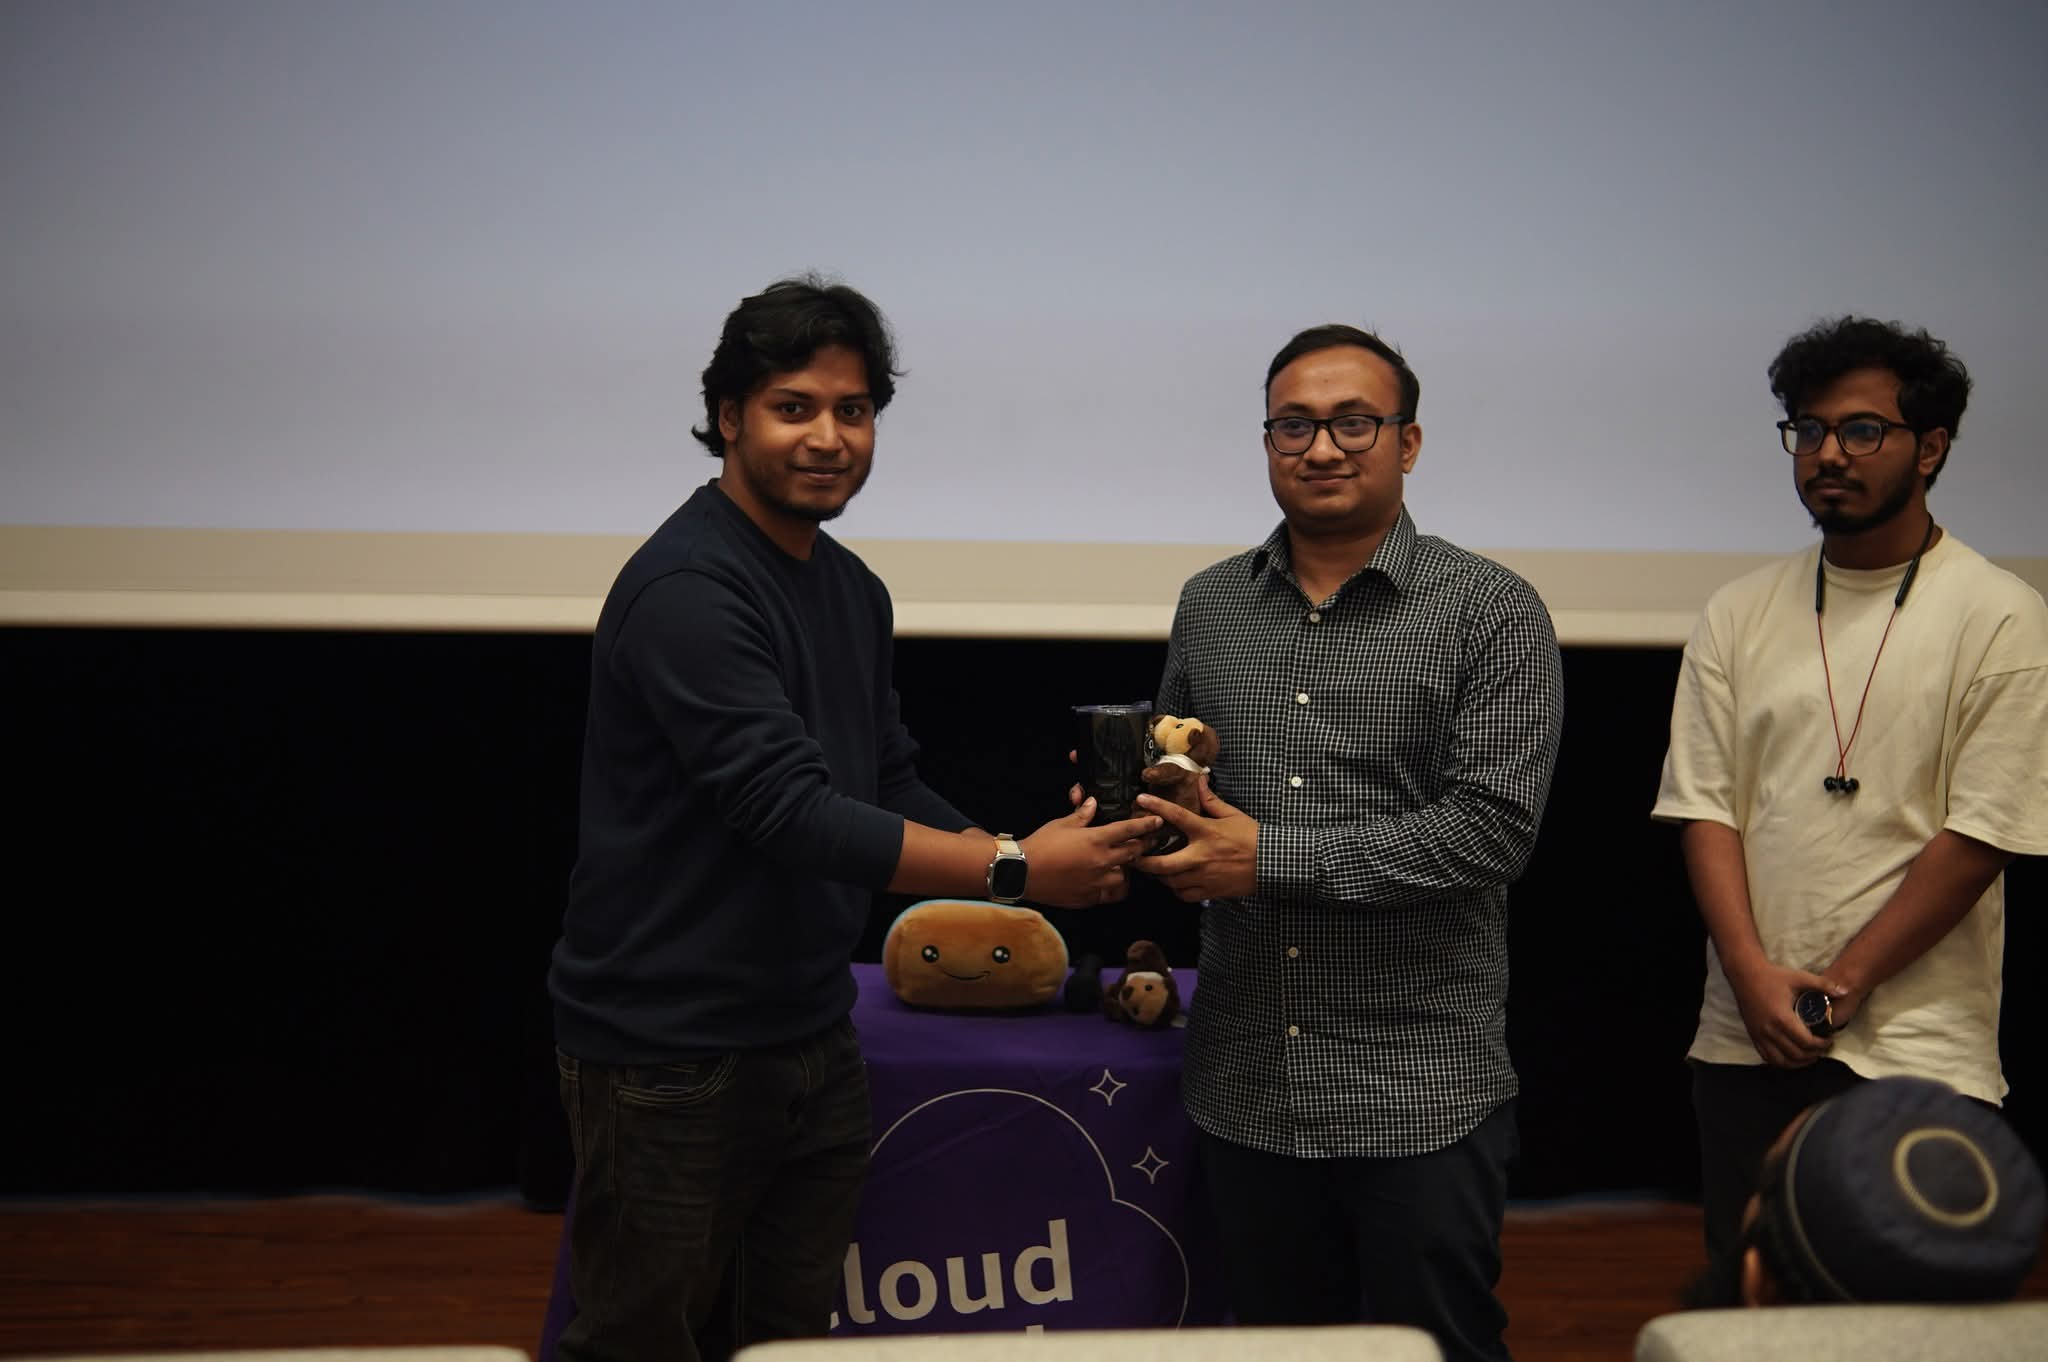
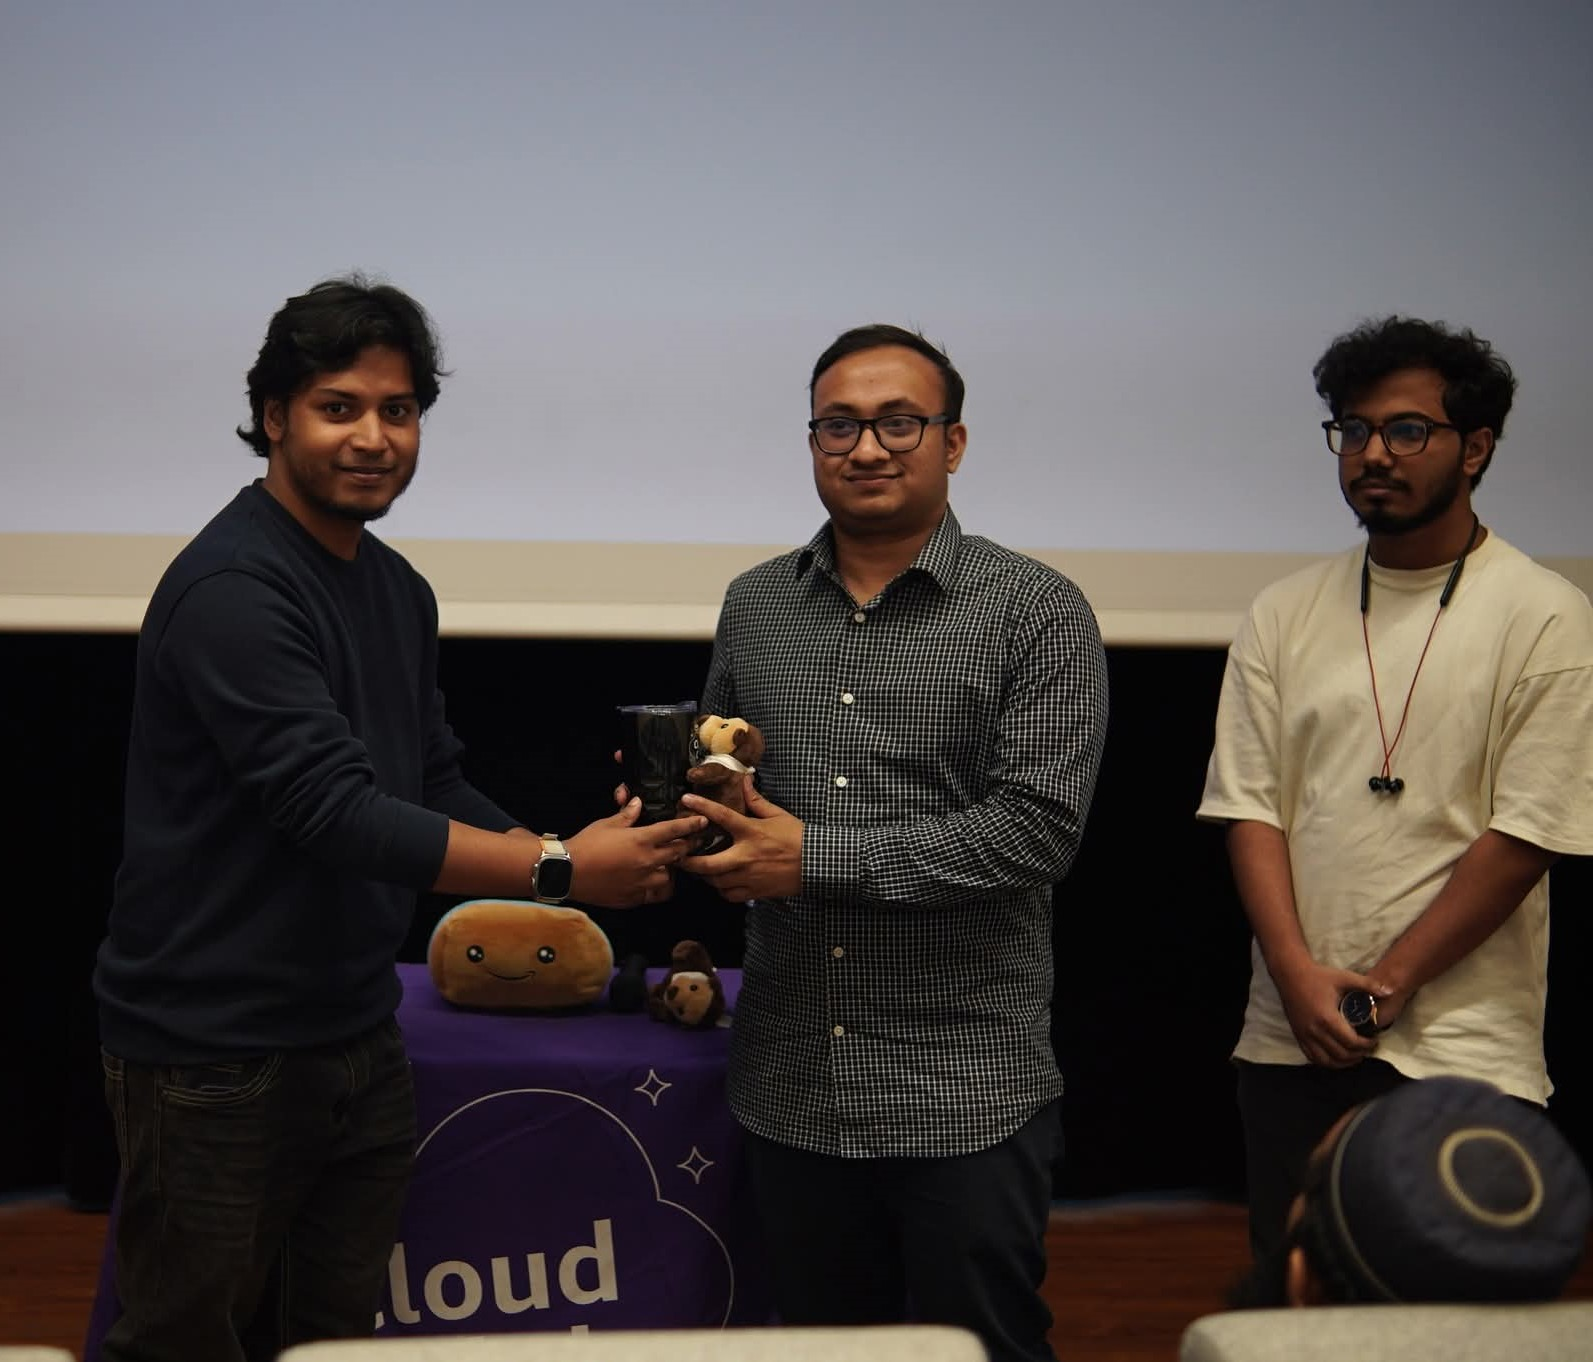
Fix the Images size

diff --git a/index.html b/index.html
@@ -13,6 +13,8 @@
     <link rel="stylesheet" href="assets/css/style.css">
     <link rel="preconnect" href="https://fonts.gstatic.com" crossorigin>
     <link rel="preconnect" href="https://fonts.googleapis.com">
+    <link rel="preload" as="image" href="assets/img/banner_pic.jpg" fetchpriority="high">
+    <link rel="preload" as="image" href="assets/img/profile_pic.png" fetchpriority="high">
     <link rel="icon" type="image/png" href="assets/img/profile_pic.png">
     <script>document.documentElement.dataset.theme = localStorage.getItem('theme') || 'light';</script>
     <noscript><style>.reveal{opacity:1!important;transform:none!important;}</style></noscript>
@@ -56,7 +58,7 @@
     <section class="hero" id="hero">
         <!-- Banner image strip -->
         <div class="hero-banner">
-            <img class="hero-banner-img" src="assets/img/banner_pic.jpg" alt="Research and innovation background banner">
+            <img class="hero-banner-img" src="assets/img/banner_pic.jpg" alt="Research and innovation background banner" width="1200" height="320" fetchpriority="high">
             <div class="hero-banner-overlay"></div>
         </div>
 
@@ -64,7 +66,7 @@
         <div class="container">
             <div class="hero-profile-row">
                 <div class="hero-avatar" role="img" aria-label="Portrait of Rezaur Rahman Ratul">
-                    <img src="assets/img/profile_pic.png" alt="Rezaur Rahman Ratul — AI Researcher">
+                    <img src="assets/img/profile_pic.png" alt="Rezaur Rahman Ratul — AI Researcher" width="148" height="148" fetchpriority="high">
                 </div>
                 <div class="hero-profile-actions">
                     <a class="btn primary" href="Resume.pdf">View CV (PDF)</a>

diff --git a/assets/css/style.css b/assets/css/style.css
@@ -421,7 +421,7 @@ p { margin: 0 0 1rem; }
 /* ============================================================
    SECTIONS
    ============================================================ */
-.section { padding: 5.5rem 0; background: transparent; }
+.section { padding: 5.5rem 0; background: transparent; content-visibility: auto; contain-intrinsic-size: 0 600px; }
 .section.alt { background: var(--bg-soft); }
 .section-container { position: relative; }
 .section-header { max-width: 680px; margin-bottom: 3rem; }
@@ -743,7 +743,7 @@ p { margin: 0 0 1rem; }
 }
 .gallery-item:hover { box-shadow: var(--shadow-lg); transform: translateY(-3px); border-color: var(--border-hover); }
 .gallery-item.is-hidden { display: none; }
-.gallery-item img { width: 100%; display: block; height: auto; transition: transform 0.5s ease; }
+.gallery-item img { width: 100%; display: block; height: auto; aspect-ratio: 4/3; background: var(--bg-soft); transition: transform 0.5s ease; }
 .gallery-item:hover img { transform: scale(1.05); }
 
 .gallery-overlay {
